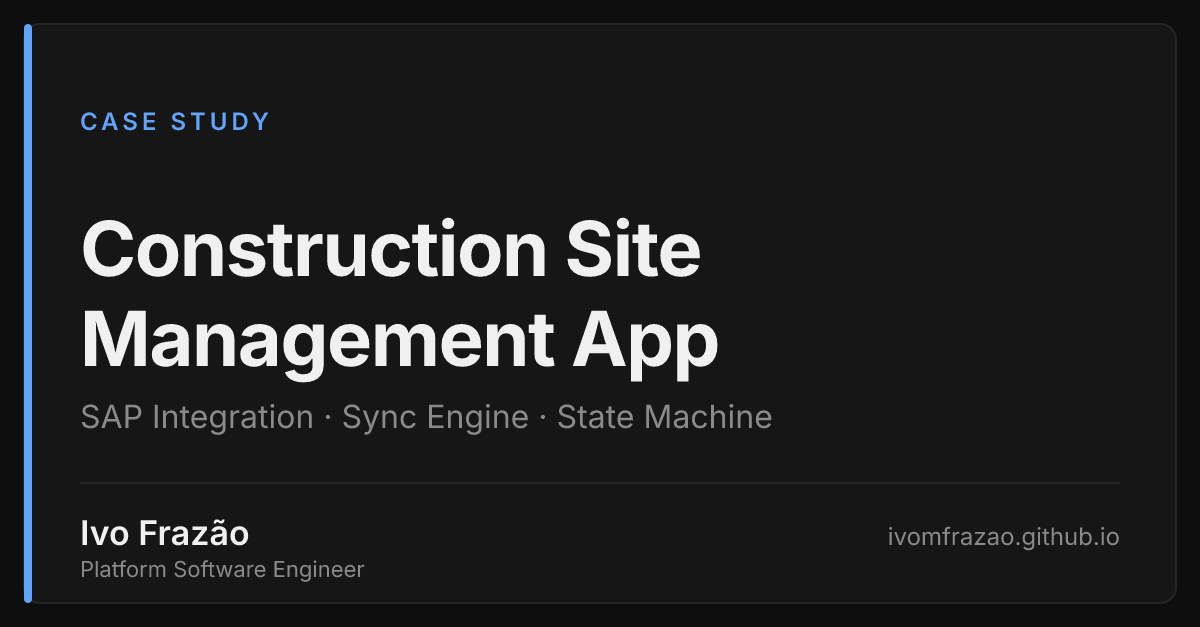
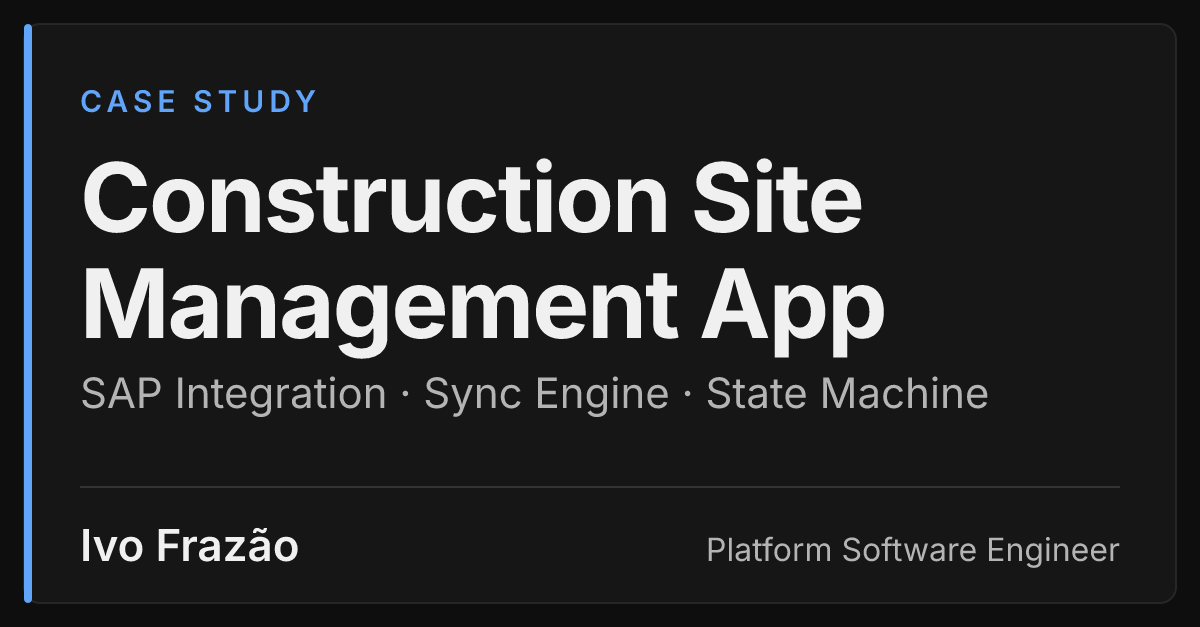
Add author and publish date meta, longer home description, larger OG card text
Case studies need a published date in front matter. OG cards use bigger type so they stay readable at LinkedIn's 480px preview.

diff --git a/scripts/generate-og.js b/scripts/generate-og.js
@@ -39,11 +39,18 @@ const C = {
   accent:    '#60a5fa',
 };
 
+/*
+ * Sizes are chosen so the card stays legible when LinkedIn shrinks it to
+ * ~480px wide (scale 0.4): nothing below ~30px on the 1200px canvas, and the
+ * lighter text is brightened rather than using the dim secondary grey.
+ */
 const PAD_X     = 80;
 const MAX_TEXT  = W - PAD_X * 2;
-const TITLE_PX  = 76;
-const TITLE_LH  = 90;
-const MAX_LINES = 3;
+const TITLE_PX  = 96;
+const TITLE_LH  = 106;
+const MAX_LINES = 2;
+const SUB_PX    = 42;
+const SUB_MIN   = 32;
 
 const FONT_OPTS = {
   fontFiles: FONTS,
@@ -86,39 +93,41 @@ function wrap(text, px, weight, maxWidth) {
 }
 
 /* Shrinks a single line until it fits (used for the subtitle). */
-function fit(text, px, weight, maxWidth, minPx = 22) {
+function fit(text, px, weight, maxWidth, minPx) {
   let size = px;
   while (size > minPx && measure(text, size, weight) > maxWidth) size -= 1;
   return size;
 }
 
-function cardSvg({ label, title, subtitle, name, role, host }) {
+function cardSvg({ label, title, subtitle, name, role }) {
   const titleLines = wrap(title, TITLE_PX, 700, MAX_TEXT);
   if (titleLines.length > MAX_LINES) {
-    throw new Error(`Title too long for the card (${titleLines.length} lines): "${title}"`);
+    throw new Error(`Title too long for the card (${titleLines.length} lines, max ${MAX_LINES}): "${title}"`);
   }
 
-  const titleTop  = 200;
-  const titleSvg  = titleLines
-    .map((l, i) => `<text x="${PAD_X}" y="${titleTop + TITLE_PX + i * TITLE_LH}" font-size="${TITLE_PX}" font-weight="700" fill="${C.text}" letter-spacing="-1.5">${xmlEsc(l)}</text>`)
-    .join('\n    ');
-  const subY      = titleTop + TITLE_PX + (titleLines.length - 1) * TITLE_LH + 62;
-  const subPx     = fit(subtitle, 32, 400, MAX_TEXT);
+  const firstBaseline = 232;
+  const titleSvg = titleLines
+    .map((l, i) => `<text x="${PAD_X}" y="${firstBaseline + i * TITLE_LH}" font-size="${TITLE_PX}" font-weight="700" fill="${C.text}" letter-spacing="-2">${xmlEsc(l)}</text>`)
+    .join('\n  ');
+  const subY  = firstBaseline + (titleLines.length - 1) * TITLE_LH + 70;
+  const subPx = fit(subtitle, SUB_PX, 400, MAX_TEXT, SUB_MIN);
+  if (measure(subtitle, subPx, 400) > MAX_TEXT) {
+    throw new Error(`Subtitle too long for the card: "${subtitle}"`);
+  }
 
   return `<svg xmlns="http://www.w3.org/2000/svg" width="${W}" height="${H}" viewBox="0 0 ${W} ${H}" font-family="Inter">
   <rect width="${W}" height="${H}" fill="${C.bg}"/>
   <rect x="24" y="24" width="${W - 48}" height="${H - 48}" rx="16" fill="${C.surface}" stroke="${C.border}" stroke-width="2"/>
   <rect x="24" y="24" width="8" height="${H - 48}" rx="4" fill="${C.accent}"/>
 
-  <text x="${PAD_X}" y="130" font-size="24" font-weight="600" fill="${C.accent}" letter-spacing="4">${xmlEsc(label.toUpperCase())}</text>
+  <text x="${PAD_X}" y="112" font-size="30" font-weight="600" fill="${C.accent}" letter-spacing="5">${xmlEsc(label.toUpperCase())}</text>
 
   ${titleSvg}
-  <text x="${PAD_X}" y="${subY}" font-size="${subPx}" font-weight="400" fill="${C.secondary}">${xmlEsc(subtitle)}</text>
+  <text x="${PAD_X}" y="${subY}" font-size="${subPx}" font-weight="400" fill="${C.text}" fill-opacity="0.72">${xmlEsc(subtitle)}</text>
 
-  <line x1="${PAD_X}" y1="${H - 144}" x2="${W - PAD_X}" y2="${H - 144}" stroke="${C.border}" stroke-width="2"/>
-  <text x="${PAD_X}" y="${H - 82}" font-size="34" font-weight="600" fill="${C.text}">${xmlEsc(name)}</text>
-  <text x="${PAD_X}" y="${H - 50}" font-size="22" font-weight="400" fill="${C.secondary}">${xmlEsc(role)}</text>
-  <text x="${W - PAD_X}" y="${H - 82}" font-size="24" font-weight="400" fill="${C.secondary}" text-anchor="end">${xmlEsc(host)}</text>
+  <line x1="${PAD_X}" y1="${H - 140}" x2="${W - PAD_X}" y2="${H - 140}" stroke="#333333" stroke-width="2"/>
+  <text x="${PAD_X}" y="${H - 66}" font-size="44" font-weight="600" fill="${C.text}">${xmlEsc(name)}</text>
+  ${role ? `<text x="${W - PAD_X}" y="${H - 66}" font-size="32" font-weight="400" fill="${C.text}" fill-opacity="0.72" text-anchor="end">${xmlEsc(role)}</text>` : ''}
 </svg>`;
 }
 
@@ -126,11 +135,13 @@ function cardSvg({ label, title, subtitle, name, role, host }) {
 
 function loadPages() {
   const cv   = JSON.parse(fs.readFileSync(path.join(ROOT, 'data', 'cv.json'), 'utf8'));
-  const base = { name: cv.profile.name, role: 'Platform Software Engineer', host: 'ivomfrazao.github.io' };
+  const base = { name: cv.profile.name, role: 'Platform Software Engineer' };
 
   const pages = [{
     file: 'index',
     ...base,
+    name: 'ivomfrazao.github.io',   // the title is already the name, so the footer shows the address
+    role: '',
     label: 'Portfolio',
     title: cv.profile.name,
     subtitle: cv.profile.tagline,
@@ -181,4 +192,6 @@ function main() {
   }
 }
 
-main();
+if (require.main === module) main();
+
+module.exports = { cardSvg, loadPages, FONT_OPTS, W };

diff --git a/build.js b/build.js
@@ -297,11 +297,22 @@ const SITE_URL  = 'https://ivomfrazao.github.io';
 const SITE_NAME = 'Ivo Frazão';
 
 // Returns the <meta> block for description, Open Graph and Twitter Card tags.
-// Used by case study pages here; index.html keeps the same set in its own head
-// (see scripts/check-meta.js, which verifies every page).
-function renderSocialMeta({ title, description, url, image, type }) {
-  return [
+// For type "article" it also emits author and article:published_time, which
+// LinkedIn's Post Inspector reads as the author and publish date.
+// Used by case study pages here; index.html keeps its own set in its head
+// (scripts/check-meta.js verifies every page).
+function renderSocialMeta({ title, description, url, image, type, author, authorUrl, published }) {
+  const lines = [
     `  <meta name="description" content="${esc(description)}">`,
+  ];
+  if (type === 'article') {
+    lines.push(
+      `  <meta name="author" content="${esc(author)}">`,
+      `  <meta property="article:author"         content="${esc(authorUrl)}">`,
+      `  <meta property="article:published_time" content="${esc(published)}">`,
+    );
+  }
+  lines.push(
     `  <meta property="og:type"        content="${esc(type)}">`,
     `  <meta property="og:site_name"   content="${esc(SITE_NAME)}">`,
     `  <meta property="og:title"       content="${esc(title)}">`,
@@ -315,7 +326,8 @@ function renderSocialMeta({ title, description, url, image, type }) {
     `  <meta name="twitter:title"       content="${esc(title)}">`,
     `  <meta name="twitter:description" content="${esc(description)}">`,
     `  <meta name="twitter:image"       content="${esc(image)}">`,
-  ].join('\n');
+  );
+  return lines.join('\n');
 }
 
 /* ── CASE STUDY PAGE TEMPLATE ─────────────────────────────────────── */
@@ -338,12 +350,15 @@ function renderTldr(fm) {
   );
 }
 
-function renderCaseStudyPage(slug, fm, body, nextCase = null) {
+function renderCaseStudyPage(slug, fm, body, nextCase = null, profile = {}) {
   const title = fm.title || 'Case Study';
   if (!fm.description) {
     throw new Error(`case-studies/${slug}.md: missing "description" in front matter (used for meta description and og:description)`);
   }
   const description = fm.description;
+  if (!/^\d{4}-\d{2}-\d{2}$/.test(fm.published ?? '')) {
+    throw new Error(`case-studies/${slug}.md: "published" in front matter must be a YYYY-MM-DD date (used for article:published_time)`);
+  }
 
   const tagsHtml = Array.isArray(fm.tags) && fm.tags.length
     ? `<div class="case-study-hero__tags">${fm.tags.map(t => `<span class="tag">${esc(t)}</span>`).join('')}</div>`
@@ -375,6 +390,9 @@ ${renderSocialMeta({
     url:   `${SITE_URL}/case-studies/${slug}.html`,
     image: `${SITE_URL}/assets/og/${slug}.png`,
     type:  'article',
+    author:    profile.name ?? SITE_NAME,
+    authorUrl: profile.links?.linkedin ?? SITE_URL,
+    published: fm.published,
   })}
   <link rel="preconnect" href="https://fonts.googleapis.com">
   <link rel="preconnect" href="https://fonts.gstatic.com" crossorigin>
@@ -531,7 +549,7 @@ function main() {
     const slug = path.basename(file, '.md');
     const raw  = fs.readFileSync(`case-studies/${file}`, 'utf8');
     const { fm, body } = parseFrontMatter(raw);
-    fs.writeFileSync(`case-studies/${slug}.html`, renderCaseStudyPage(slug, fm, body, caseStudyNext[slug] ?? null));
+    fs.writeFileSync(`case-studies/${slug}.html`, renderCaseStudyPage(slug, fm, body, caseStudyNext[slug] ?? null, profile));
     console.log(`  Built case-studies/${slug}.html`);
   }
 

diff --git a/scripts/check-meta.js b/scripts/check-meta.js
@@ -6,7 +6,8 @@
  *   node scripts/check-meta.js
  *
  * Checks, per page: all required tags present exactly once, absolute https URLs,
- * og:description under 160 chars, matching meta description, og:image file exists
+ * og:description 100-159 chars (LinkedIn warns under 100), matching meta description,
+ * articles also need author, article:author and article:published_time, og:image file exists
  * in assets/og/, is a 1200x627 PNG and is under 1 MB. Exits non-zero on any failure.
  */
 
@@ -52,7 +53,7 @@ function pngSize(file) {
 let failures = 0;
 const fail = (page, msg) => { failures++; console.log(`  FAIL ${page}: ${msg}`); };
 
-console.log('Page | og:title | og:image');
+console.log('Page | og:title | og:image | author | published');
 for (const page of pages) {
   const html = fs.readFileSync(path.join(ROOT, page), 'utf8');
   const head = html.slice(0, html.indexOf('</head>'));
@@ -79,18 +80,27 @@ for (const page of pages) {
   const [type]   = get('property', 'og:type');
   const [card]   = get('name', 'twitter:card');
 
-  if (desc && desc.length >= 160)  fail(page, `og:description is ${desc.length} chars (limit: under 160)`);
+  if (desc && (desc.length >= 160 || desc.length < 100)) fail(page, `og:description is ${desc.length} chars (needs 100-159)`);
   if (meta !== desc)               fail(page, 'meta description differs from og:description');
   if (card !== 'summary_large_image') fail(page, `twitter:card is ${card}`);
   if (get('name', 'twitter:image')[0] !== image) fail(page, 'twitter:image differs from og:image');
   if (get('name', 'twitter:title')[0] !== title) fail(page, 'twitter:title differs from og:title');
   if (get('property', 'og:site_name')[0] !== 'Ivo Frazão') fail(page, 'og:site_name is not "Ivo Frazão"');
 
-  const expectedType = page === 'index.html' ? 'website' : 'article';
+  const expectedType = page.startsWith('case-studies/') ? 'article' : 'website';
   if (type !== expectedType) fail(page, `og:type is ${type}, expected ${expectedType}`);
 
   const expectedUrl = page === 'index.html' ? `${SITE}/` : `${SITE}/${page}`;
   if (url !== expectedUrl) fail(page, `og:url is ${url}, expected ${expectedUrl}`);
+
+  if (type === 'article') {
+    const [author] = get('name', 'author');
+    const [authorUrl] = get('property', 'article:author');
+    const [published] = get('property', 'article:published_time');
+    if (get('name', 'author').length !== 1 || !author) fail(page, 'missing or duplicate <meta name="author">');
+    if (get('property', 'article:author').length !== 1 || !/^https:\/\//.test(authorUrl || '')) fail(page, 'article:author must appear once as an absolute https URL');
+    if (get('property', 'article:published_time').length !== 1 || !/^\d{4}-\d{2}-\d{2}/.test(published || '') || isNaN(Date.parse(published))) fail(page, `article:published_time missing or invalid: ${published}`);
+  }
 
   if (page.startsWith('case-studies/')) {
     const h1 = (html.match(/<h1 class="case-study-hero__title">([^<]*)<\/h1>/) || [])[1];
@@ -112,7 +122,7 @@ for (const page of pages) {
     }
   }
 
-  console.log(`${page} | ${title} | ${image}`);
+  console.log(`${page} | ${title} | ${image} | ${get('name', 'author')[0] ?? '-'} | ${get('property', 'article:published_time')[0] ?? '-'}`);
 }
 
 console.log(failures ? `\n${failures} problem(s) found.` : `\nAll ${pages.length} pages OK.`);

diff --git a/index.html b/index.html
@@ -4,13 +4,13 @@
   <meta charset="UTF-8">
   <meta name="viewport" content="width=device-width, initial-scale=1.0">
   <title>Ivo Frazão · Portfolio</title>
-  <meta name="description" content="Platform engineer and tech lead. Career timeline and project case studies.">
+  <meta name="description" content="Platform engineer and tech lead working on architecture, security and cloud. Career timeline and case studies on identity, ERP integration and workflows.">
 
   <!-- Open Graph / Twitter Card (images are generated by scripts/generate-og.js) -->
   <meta property="og:type"        content="website">
   <meta property="og:site_name"   content="Ivo Frazão">
   <meta property="og:title"       content="Ivo Frazão · Portfolio">
-  <meta property="og:description" content="Platform engineer and tech lead. Career timeline and project case studies.">
+  <meta property="og:description" content="Platform engineer and tech lead working on architecture, security and cloud. Career timeline and case studies on identity, ERP integration and workflows.">
   <meta property="og:url"         content="https://ivomfrazao.github.io/">
   <meta property="og:image"       content="https://ivomfrazao.github.io/assets/og/index.png">
   <meta property="og:image:width"  content="1200">
@@ -18,7 +18,7 @@
   <meta property="og:image:alt"   content="Ivo Frazão, Platform Software Engineer">
   <meta name="twitter:card"        content="summary_large_image">
   <meta name="twitter:title"       content="Ivo Frazão · Portfolio">
-  <meta name="twitter:description" content="Platform engineer and tech lead. Career timeline and project case studies.">
+  <meta name="twitter:description" content="Platform engineer and tech lead working on architecture, security and cloud. Career timeline and case studies on identity, ERP integration and workflows.">
   <meta name="twitter:image"       content="https://ivomfrazao.github.io/assets/og/index.png">
 
   <!-- Fonts -->

diff --git a/case-study.html b/case-study.html
@@ -4,13 +4,13 @@
   <meta charset="UTF-8">
   <meta name="viewport" content="width=device-width, initial-scale=1.0">
   <title>Case Study — Ivo Frazão</title>
-  <meta name="description" content="Project case studies by Ivo Frazão, Platform Software Engineer.">
+  <meta name="description" content="Project case studies by Ivo Frazão, Platform Software Engineer, covering identity, security, ERP integration and workflow platforms.">
 
   <!-- Open Graph / Twitter Card (images are generated by scripts/generate-og.js) -->
-  <meta property="og:type"        content="article">
+  <meta property="og:type"        content="website">
   <meta property="og:site_name"   content="Ivo Frazão">
   <meta property="og:title"       content="Case Study · Ivo Frazão">
-  <meta property="og:description" content="Project case studies by Ivo Frazão, Platform Software Engineer.">
+  <meta property="og:description" content="Project case studies by Ivo Frazão, Platform Software Engineer, covering identity, security, ERP integration and workflow platforms.">
   <meta property="og:url"         content="https://ivomfrazao.github.io/case-study.html">
   <meta property="og:image"       content="https://ivomfrazao.github.io/assets/og/case-study.png">
   <meta property="og:image:width"  content="1200">
@@ -18,7 +18,7 @@
   <meta property="og:image:alt"   content="Case Study, by Ivo Frazão">
   <meta name="twitter:card"        content="summary_large_image">
   <meta name="twitter:title"       content="Case Study · Ivo Frazão">
-  <meta name="twitter:description" content="Project case studies by Ivo Frazão, Platform Software Engineer.">
+  <meta name="twitter:description" content="Project case studies by Ivo Frazão, Platform Software Engineer, covering identity, security, ERP integration and workflow platforms.">
   <meta name="twitter:image"       content="https://ivomfrazao.github.io/assets/og/case-study.png">
 
   <!-- Fonts -->

diff --git a/case-studies/construction-site.html b/case-studies/construction-site.html
@@ -5,6 +5,9 @@
   <meta name="viewport" content="width=device-width, initial-scale=1.0">
   <title>Construction Site Management App · Ivo Frazão</title>
   <meta name="description" content="Tablet app sync engine for SAP, rebuilt as an explicit state machine after reverse-engineering an undocumented data model, with bidirectional writes.">
+  <meta name="author" content="Ivo Frazão">
+  <meta property="article:author"         content="https://linkedin.com/in/ivomfrazao">
+  <meta property="article:published_time" content="2026-05-22">
   <meta property="og:type"        content="article">
   <meta property="og:site_name"   content="Ivo Frazão">
   <meta property="og:title"       content="Construction Site Management App">

diff --git a/case-studies/deeplink-security.html b/case-studies/deeplink-security.html
@@ -5,6 +5,9 @@
   <meta name="viewport" content="width=device-width, initial-scale=1.0">
   <title>Deep-Linking Security Model · Ivo Frazão</title>
   <meta name="description" content="Bearer token validation added to deep-linking to close a user impersonation path across 11 exploitable integrations, with an incremental rollout.">
+  <meta name="author" content="Ivo Frazão">
+  <meta property="article:author"         content="https://linkedin.com/in/ivomfrazao">
+  <meta property="article:published_time" content="2026-05-22">
   <meta property="og:type"        content="article">
   <meta property="og:site_name"   content="Ivo Frazão">
   <meta property="og:title"       content="Deep-Linking Security Model">

diff --git a/case-studies/pos-platform.html b/case-studies/pos-platform.html
@@ -5,6 +5,9 @@
   <meta name="viewport" content="width=device-width, initial-scale=1.0">
   <title>Point-of-Sale Platform · Ivo Frazão</title>
   <meta name="description" content="Unified B2C and B2B point-of-sale platform on a legacy ERP with no API docs. Delivered in 10 months against a 6-month estimate, with 20 stores rolled out.">
+  <meta name="author" content="Ivo Frazão">
+  <meta property="article:author"         content="https://linkedin.com/in/ivomfrazao">
+  <meta property="article:published_time" content="2026-05-22">
   <meta property="og:type"        content="article">
   <meta property="og:site_name"   content="Ivo Frazão">
   <meta property="og:title"       content="Point-of-Sale Platform">

diff --git a/case-studies/workflow-builder.html b/case-studies/workflow-builder.html
@@ -5,6 +5,9 @@
   <meta name="viewport" content="width=device-width, initial-scale=1.0">
   <title>Workflow Builder Platform · Ivo Frazão</title>
   <meta name="description" content="Configurable workflow platform with a rule engine, dynamic forms and event-driven execution. Workflow configuration time fell by 40% at rollout.">
+  <meta name="author" content="Ivo Frazão">
+  <meta property="article:author"         content="https://linkedin.com/in/ivomfrazao">
+  <meta property="article:published_time" content="2026-05-22">
   <meta property="og:type"        content="article">
   <meta property="og:site_name"   content="Ivo Frazão">
   <meta property="og:title"       content="Workflow Builder Platform">

diff --git a/case-studies/identity-gateway.html b/case-studies/identity-gateway.html
@@ -5,6 +5,9 @@
   <meta name="viewport" content="width=device-width, initial-scale=1.0">
   <title>Identity Gateway · Ivo Frazão</title>
   <meta name="description" content="Identity gateway bringing PKCE, nonce and JWKS-based JWT validation to applications through configuration, with no code changes. In pilot with 5 applications.">
+  <meta name="author" content="Ivo Frazão">
+  <meta property="article:author"         content="https://linkedin.com/in/ivomfrazao">
+  <meta property="article:published_time" content="2026-09-08">
   <meta property="og:type"        content="article">
   <meta property="og:site_name"   content="Ivo Frazão">
   <meta property="og:title"       content="Identity Gateway">

diff --git a/case-studies/identity-gateway.md b/case-studies/identity-gateway.md
@@ -4,6 +4,7 @@ company: Fidelidade
 role: Platform Software Engineer
 dateRange: Apr 2026 – Present
 tags: [OAuth2/OIDC, JWKS, Microsoft Entra, Session Security, Platform Engineering]
+published: 2026-09-08
 description: Identity gateway bringing PKCE, nonce and JWKS-based JWT validation to applications through configuration, with no code changes. In pilot with 5 applications.
 tldrProblem: A review of the platform's highest-usage OutSystems applications found none with complete JWT validation, and inconsistent, often undisciplined, token persistence. Validation gaps included inconsistent lifetime, issuer, and audience checks, no nonce support anywhere, and signature checks against a static certificate per team instead of a JWKS endpoint, which meant the signing key had never been rotated.
 tldrDid: Added the missing IdP capabilities (PKCE, nonce, a JWKS endpoint, session-scoped tokens, and front-channel logout, all new to the identity provider), then proposed, designed and built an identity gateway that applies those capabilities and correct JWT validation to any application that moves onto it, with no code changes on that application's side. Also rewrote token minting end-to-end.

diff --git a/case-studies/deeplink-security.md b/case-studies/deeplink-security.md
@@ -4,6 +4,7 @@ company: Fidelidade
 role: Platform Software Engineer
 dateRange: Jan 2026 – Present
 tags: [Security, Authorization, JWT, Platform Engineering, Token Design]
+published: 2026-05-22
 description: Bearer token validation added to deep-linking to close a user impersonation path across 11 exploitable integrations, with an incremental rollout.
 tldrProblem: The platform's deep-linking had application-level isolation but no user-level check: anyone with a URL could arrive authenticated as the user it was created for, an impersonation path across 11 of the more than 20 integrations registered on the service.
 tldrDid: Identified the gap proactively, designed a two-layer security model adding bearer token validation alongside the existing app-key mechanism, and extended the custom identity provider to support it.
